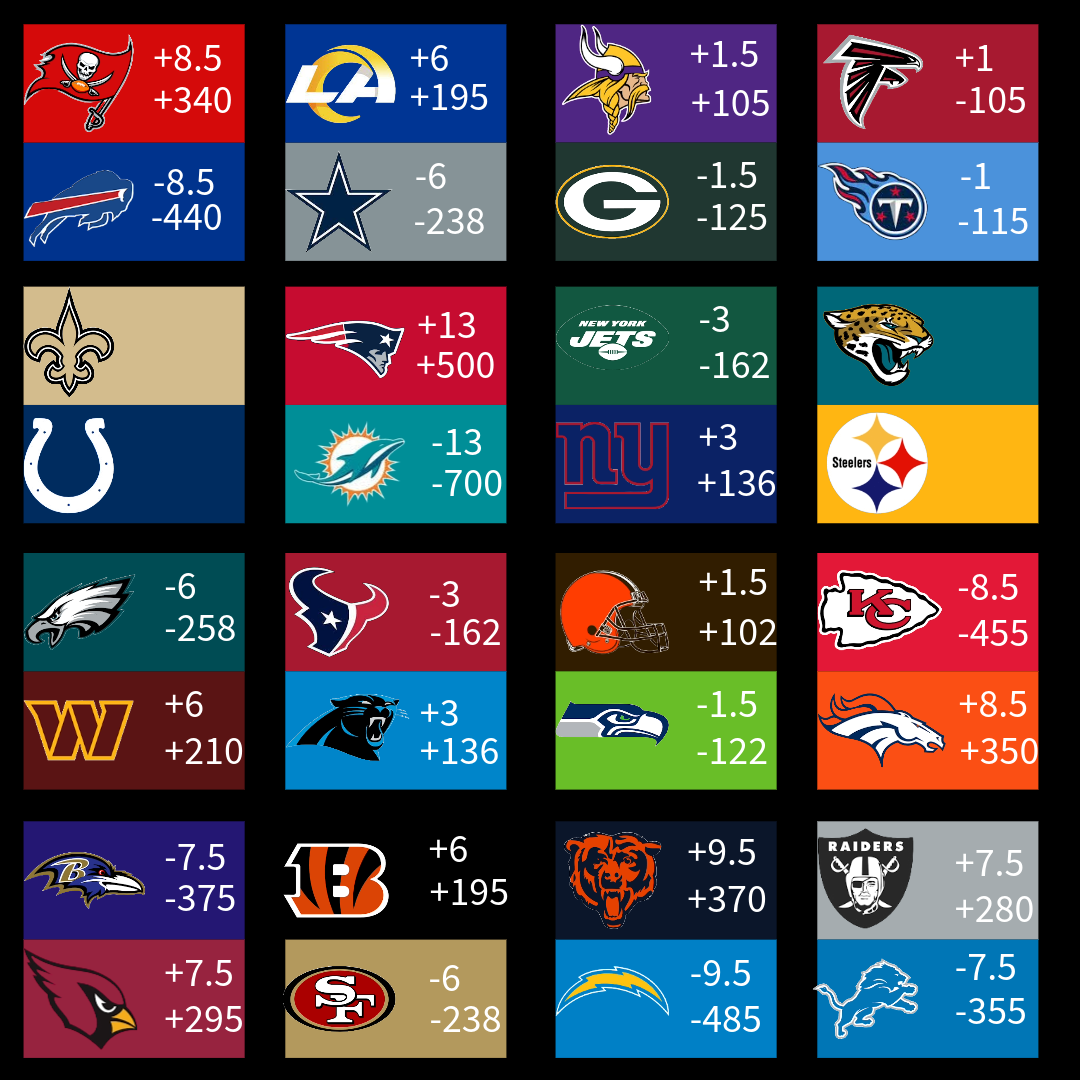
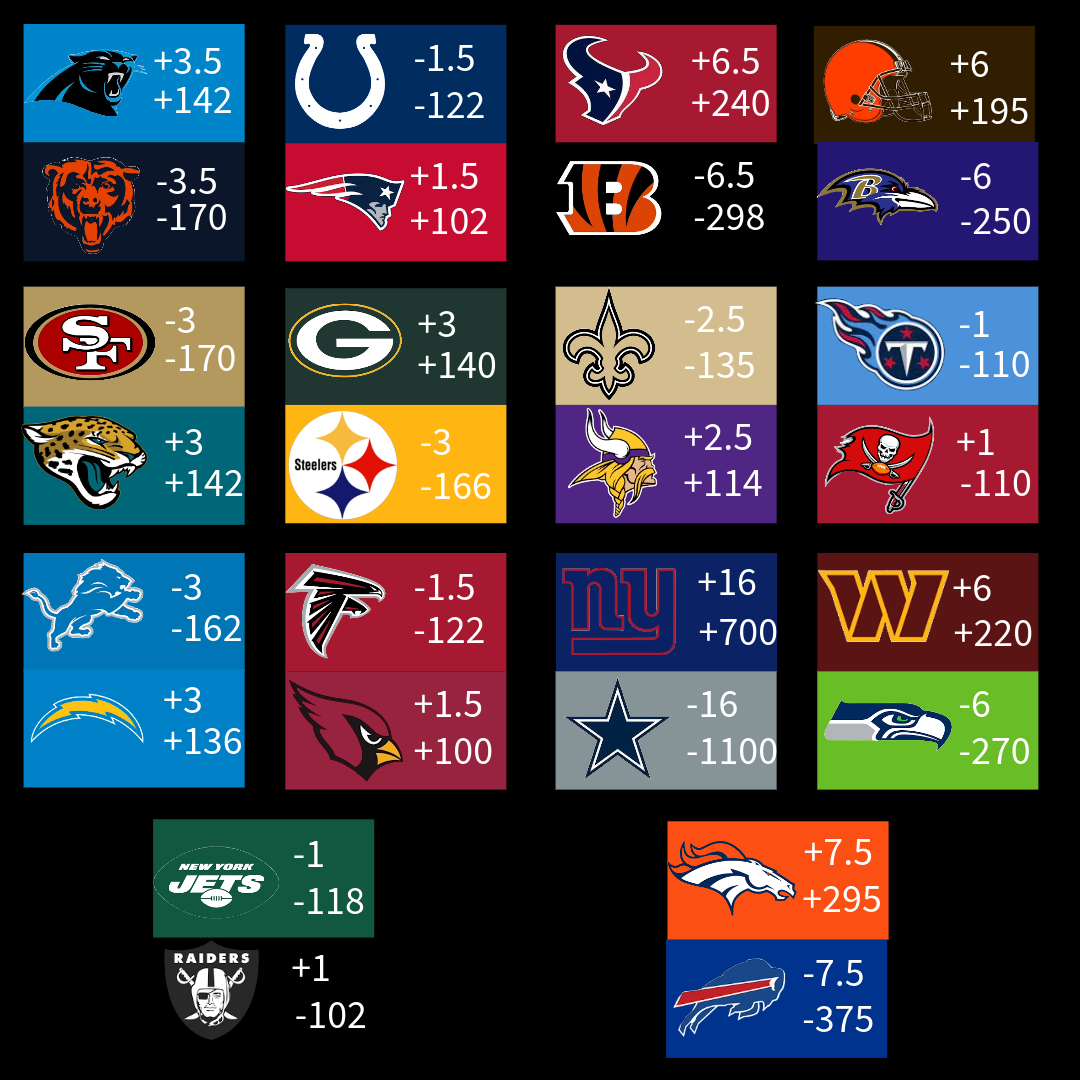
new bets

diff --git a/public/dashboard.js b/public/dashboard.js
@@ -176,70 +176,90 @@ document.getElementById('submitPicks').addEventListener('click', submitUserPicks
 
 // Assuming betOptions is an array of all bet options for the week
 const betOptions = [
-    { teamName: 'ARI Cardinals', type: 'ML', value: '+150' },
-    { teamName: 'ARI Cardinals', type: 'Spread', value: '-3.5' },
-    { teamName: 'ATL Falcons', type: 'ML', value: '+220' },
-    { teamName: 'ATL Falcons', type: 'Spread', value: '+5.5' },
-    { teamName: 'BAL Ravens', type: 'ML', value: '-120' },
-    { teamName: 'BAL Ravens', type: 'Spread', value: '-2.5' },
-    { teamName: 'BUF Bills', type: 'ML', value: '-300' },
-    { teamName: 'BUF Bills', type: 'Spread', value: '-6.5' },
-    { teamName: 'CAR Panthers', type: 'ML', value: '+190' },
+    // Panthers vs Bears
     { teamName: 'CAR Panthers', type: 'Spread', value: '+3.5' },
-    { teamName: 'CHI Bears', type: 'ML', value: '+160' },
-    { teamName: 'CHI Bears', type: 'Spread', value: '+4.0' },
-    { teamName: 'CIN Bengals', type: 'ML', value: '-110' },
-    { teamName: 'CIN Bengals', type: 'Spread', value: '-1.5' },
-    { teamName: 'CLE Browns', type: 'ML', value: '+130' },
-    { teamName: 'CLE Browns', type: 'Spread', value: '+2.5' },
-    { teamName: 'DAL Cowboys', type: 'ML', value: '-250' },
-    { teamName: 'DAL Cowboys', type: 'Spread', value: '-5.5' },
-    { teamName: 'DEN Broncos', type: 'ML', value: '+180' },
-    { teamName: 'DEN Broncos', type: 'Spread', value: '+3.0' },
-    { teamName: 'DET Lions', type: 'ML', value: '+210' },
-    { teamName: 'DET Lions', type: 'Spread', value: '+4.5' },
-    { teamName: 'GB Packers', type: 'ML', value: '-280' },
-    { teamName: 'GB Packers', type: 'Spread', value: '-6.0' },
-    { teamName: 'HOU Texans', type: 'ML', value: '+230' },
-    { teamName: 'HOU Texans', type: 'Spread', value: '+5.0' },
-    { teamName: 'IND Colts', type: 'ML', value: '-150' },
-    { teamName: 'IND Colts', type: 'Spread', value: '-3.0' },
-    { teamName: 'JAX Jaguars', type: 'ML', value: '+250' },
-    { teamName: 'JAX Jaguars', type: 'Spread', value: '+6.0' },
-    { teamName: 'KC Chiefs', type: 'ML', value: '-320' },
-    { teamName: 'KC Chiefs', type: 'Spread', value: '-7.0' },       
-    { teamName: 'LV Raiders', type: 'ML', value: '+180' },
-    { teamName: 'LV Raiders', type: 'Spread', value: '+3.5' },
-    { teamName: 'LA Chargers', type: 'ML', value: '-170' },
-    { teamName: 'LA Chargers', type: 'Spread', value: '-4.0' },
-    { teamName: 'LA Rams', type: 'ML', value: '-200' },
-    { teamName: 'LA Rams', type: 'Spread', value: '-5.0' },
-    { teamName: 'MIA Dolphins', type: 'ML', value: '+160' },
-    { teamName: 'MIA Dolphins', type: 'Spread', value: '+2.5' },
-    { teamName: 'MIN Vikings', type: 'ML', value: '+140' },
-    { teamName: 'MIN Vikings', type: 'Spread', value: '+2.0' },
-    { teamName: 'NE Patriots', type: 'ML', value: '-150' },
-    { teamName: 'NE Patriots', type: 'Spread', value: '-3.0' },
-    { teamName: 'NO Saints', type: 'ML', value: '+170' },
-    { teamName: 'NO Saints', type: 'Spread', value: '+3.0' },
-    { teamName: 'NY Giants', type: 'ML', value: '+190' },
-    { teamName: 'NY Giants', type: 'Spread', value: '+3.5' },
-    { teamName: 'NY Jets', type: 'ML', value: '+210' },
-    { teamName: 'NY Jets', type: 'Spread', value: '+4.5' },
-    { teamName: 'PHI Eagles', type: 'ML', value: '-180' },
-    { teamName: 'PHI Eagles', type: 'Spread', value: '-4.0' },
-    { teamName: 'PIT Steelers', type: 'ML', value: '+130' },
-    { teamName: 'PIT Steelers', type: 'Spread', value: '+2.0' },
-    { teamName: 'SF 49ers', type: 'ML', value: '-240' },
-    { teamName: 'SF 49ers', type: 'Spread', value: '-5.5' },
-    { teamName: 'SEA Seahawks', type: 'ML', value: '+220' },
-    { teamName: 'SEA Seahawks', type: 'Spread', value: '+4.0' },
-    { teamName: 'TB Buccaneers', type: 'ML', value: '-300' },
-    { teamName: 'TB Buccaneers', type: 'Spread', value: '-6.5' },
-    { teamName: 'TEN Titans', type: 'ML', value: '-170' },
-    { teamName: 'TEN Titans', type: 'Spread', value: '-3.5' },
-    { teamName: 'WAS Commanders', type: 'ML', value: '+200' },
-    { teamName: 'WAS Commanders', type: 'Spread', value: '+4.0' }
+    { teamName: 'CAR Panthers', type: 'ML', value: '+142' },
+    { teamName: 'CHI Bears', type: 'Spread', value: '-3.5' },
+    { teamName: 'CHI Bears', type: 'ML', value: '-170' },
+
+    // Colts vs Patriots
+    { teamName: 'IND Colts', type: 'Spread', value: '-1.5' },
+    { teamName: 'IND Colts', type: 'ML', value: '-122' },
+    { teamName: 'NE Patriots', type: 'Spread', value: '+1.5' },
+    { teamName: 'NE Patriots', type: 'ML', value: '+102' },
+
+    //texans vs bengals
+    { teamName: 'HOU Texans', type: 'Spread', value: '+6.5'},
+    { teamName: 'HOU Texans', type: 'ML', value: '+240'},
+    { teamName: 'CIN Bengals', type: 'Spread', value: '-6.5'},
+    { teamName: 'CIN Bengals', type: 'ML', value: '-298'},
+
+    // Browns vs Ravens
+    { teamName: 'CLE Browns', type: 'Spread', value: '+6' },
+    { teamName: 'CLE Browns', type: 'ML', value: '+195' },
+    { teamName: 'BAL Ravens', type: 'Spread', value: '-6' },
+    { teamName: 'BAL Ravens', type: 'ML', value: '-250' },
+
+    // 49ers vs Jaguars
+    { teamName: 'SF 49ers', type: 'Spread', value: '-3' },
+    { teamName: 'SF 49ers', type: 'ML', value: '-170' },
+    { teamName: 'JAX Jaguars', type: 'Spread', value: '+3' },
+    { teamName: 'JAX Jaguars', type: 'ML', value: '+142' },
+
+     // Packers vs Steelers
+     { teamName: 'GB Packers', type: 'Spread', value: '+3' },
+     { teamName: 'GB Packers', type: 'ML', value: '+140' },
+     { teamName: 'PIT Steelers', type: 'Spread', value: '-3' },
+     { teamName: 'PIT Steelers', type: 'ML', value: '-166' },
+
+    // Saints vs Vikings
+    { teamName: 'NO Saints', type: 'Spread', value: '-2.5' },
+    { teamName: 'NO Saints', type: 'ML', value: '-135' },
+    { teamName: 'MIN Vikings', type: 'Spread', value: '+2.5' },
+    { teamName: 'MIN Vikings', type: 'ML', value: '+114' },
+
+        // Titans vs Buccaneers
+        { teamName: 'TEN Titans', type: 'Spread', value: '-1' },
+        { teamName: 'TEN Titans', type: 'ML', value: '-110' },
+        { teamName: 'TB Buccaneers', type: 'Spread', value: '+1' },
+        { teamName: 'TB Buccaneers', type: 'ML', value: '-110' },
+    
+    // Lions vs Chargers
+    { teamName: 'DET Lions', type: 'Spread', value: '-3' },
+    { teamName: 'DET Lions', type: 'ML', value: '-162' },
+    { teamName: 'LA Chargers', type: 'Spread', value: '+3' },
+    { teamName: 'LA Chargers', type: 'ML', value: '+136' },
+
+     // Falcons vs Chargers
+     { teamName: 'ATL Falcons', type: 'Spread', value: '-1.5' },
+     { teamName: 'ATL Falcons', type: 'ML', value: '-122' },
+     { teamName: 'ARI Cardinals', type: 'Spread', value: '+1.5' },
+     { teamName: 'ARI Cardinals', type: 'ML', value: '+100' },
+
+       // Giants vs Cowboys
+    { teamName: 'NY Giants', type: 'Spread', value: '+16' },
+    { teamName: 'NY Giants', type: 'ML', value: '+700' },
+    { teamName: 'DAL Cowboys', type: 'Spread', value: '-16' },
+    { teamName: 'DAL Cowboys', type: 'ML', value: '-1100' },
+
+        // Commanders vs Seahawks
+        { teamName: 'WAS Commanders', type: 'Spread', value: '+6' },
+        { teamName: 'WAS Commanders', type: 'ML', value: '+220' },
+        { teamName: 'SEA Seahawks', type: 'Spread', value: '-6' },
+        { teamName: 'SEA Seahawks', type: 'ML', value: '-270' },
+
+    // Jets vs Raiders
+    { teamName: 'NY Jets', type: 'Spread', value: '-1' },
+    { teamName: 'NY Jets', type: 'ML', value: '-118' },
+    { teamName: 'LV Raiders', type: 'Spread', value: '+1' },
+    { teamName: 'LV Raiders', type: 'ML', value: '-102' },
+
+        // Broncos vs Bills
+        { teamName: 'DEN Broncos', type: 'Spread', value: '+7.5' },
+        { teamName: 'DEN Broncos', type: 'ML', value: '+295' },
+        { teamName: 'BUF Bills', type: 'Spread', value: '-7.5' },
+        { teamName: 'BUF Bills', type: 'ML', value: '-375' },
+    
 ];
 
 const teamColorClasses = {
